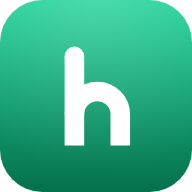
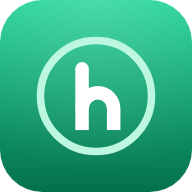
Иконка Hub 3.1: h в тонком мятном кольце
Claude-Session: https://claude.ai/code/session_014vtzJqHRHW3HyKP8sWtKkD

Changed region(s): [[0.1875, 0.1875, 0.8125, 0.8125], [0.4688, 0.5, 0.5312, 0.5312]]

diff --git a/sw.js b/sw.js
@@ -2,7 +2,7 @@
    Страницы и картинки — сразу из кэша (мгновенно), а в фоне проверяется новая версия; если она вышла — странице приходит сигнал «обновлено».
    Данные (*.json) — сначала сеть (свежие котировки и новости), если сеть не ответила за 4 с — из кэша.
    Шрифты Google и история цен с GitHub — из кэша с фоновым обновлением. */
-const V = 'hub-v34', STATIC = V + '-static', DATA = 'hub-data', EXT = 'hub-ext';
+const V = 'hub-v35', STATIC = V + '-static', DATA = 'hub-data', EXT = 'hub-ext';
 const CORE = ['./', 'index.html', 'artem.html', 'nastya.html', 'ucheba.html', 'finance.html', 'manifest.webmanifest', 'icon-192.png', 'apple-touch-icon.png'];
 
 self.addEventListener('install', e => {

diff --git a/src/logo/hub.py b/src/logo/hub.py
@@ -1,4 +1,4 @@
-"""Hub — логотип 3.0. Знак — строчная «h», нарисованная одной толщиной линии (стойка + арка), без шрифтов.
+"""Hub — логотип 3.1. Знак — строчная «h» в тонком мятном кольце; сама h, нарисованная одной толщиной линии (стойка + арка), без шрифтов.
 Те же правила строят «u» и «b», так что значок + «ub» читаются как hub."""
 W = 58          # толщина линии
 R = 68          # радиус арки (по средней линии)
@@ -24,10 +24,13 @@ def word(c, letters='hub'):
     for ch in letters:
         f, w = {'h': h, 'u': u, 'b': b}[ch](c, x); out += f; x += w + GAP
     return out, x - GAP
-def mark(c='#FFFFFF'):
-    """знак для значка: h по центру 512×512 (оптически чуть правее — у h тяжёлая левая стойка)"""
+RING = '#BDF7DF'   # мятное кольцо вокруг h: hub — точка, где всё сходится
+def mark(c='#FFFFFF', ring=None):
+    """знак для значка: h в тонком кольце, по центру 512×512 (h чуть правее — у неё тяжёлая левая стойка)"""
     f, w = h(c)
-    return scaled(f'<g transform="translate({256 - w/2 + 4} {256 - (ASC + BASE)/2})">{f}</g>', 0.9)
+    k = 0.62
+    glyph = f'<g transform="translate({256 + 5} 256) scale({k}) translate({-w/2} {-(ASC + BASE)/2})">{f}</g>'
+    return f'<circle cx="256" cy="256" r="148" fill="none" stroke="{ring or RING}" stroke-width="20"/>' + glyph
 GRAD = ('#22D39A', '#05704C')
 def defs(u):
     a, b_ = GRAD
@@ -39,11 +42,11 @@ def scaled(inner, k): return f'<g transform="translate(256 256) scale({k}) trans
 U = 'h'
 ROUNDED = svg(defs(U) + bg(U, 113) + mark())
 FULL = svg(defs(U) + bg(U, 0) + mark())
-MASKABLE = svg(defs(U) + bg(U, 0) + scaled(mark(), 0.84))
+MASKABLE = svg(defs(U) + bg(U, 0) + scaled(mark(), 0.86))
 ANDROID_BG = svg(defs(U) + bg(U, 0))
-ANDROID_FG = svg(scaled(mark(), 0.62))          # видимая часть адаптивной иконки — 72 из 108 dp
-ANDROID_MONO = svg(scaled(mark('#FFFFFF'), 0.62))
-CIRCLE = svg(defs(U) + '<circle cx="256" cy="256" r="256" fill="url(#gh)"/><circle cx="256" cy="256" r="256" fill="url(#lh)"/>' + scaled(mark(), 0.94))
+ANDROID_FG = svg(scaled(mark(), 0.66))          # видимая часть адаптивной иконки — 72 из 108 dp
+ANDROID_MONO = svg(scaled(mark('#FFFFFF', '#FFFFFF'), 0.66))
+CIRCLE = svg(defs(U) + '<circle cx="256" cy="256" r="256" fill="url(#gh)"/><circle cx="256" cy="256" r="256" fill="url(#lh)"/>' + scaled(mark(), 0.96))
 def wordmark(c='#25221C', letters='ub', first=None):
     """first — цвет первой буквы (h в фирменном изумруде)"""
     f, w = word(c, letters); H = BASE - ASC

diff --git a/android/app/src/main/java/io/github/sherlockkka/hub/MainActivity.java b/android/app/src/main/java/io/github/sherlockkka/hub/MainActivity.java
@@ -135,7 +135,7 @@ public class MainActivity extends Activity {
                     String bg = isNight() ? "#171611" : "#F4F1E8", fg = isNight() ? "#E8E4D8" : "#25221C";
                     v.loadDataWithBaseURL(HOME, "<html><head><meta name=viewport content='width=device-width,initial-scale=1'></head>"
                         + "<body style='margin:0;height:100vh;display:flex;align-items:center;justify-content:center;background:" + bg + ";color:" + fg + ";font-family:sans-serif;text-align:center'>"
-                        + "<div><svg xmlns='http://www.w3.org/2000/svg' width='84' height='84' viewBox='0 0 512 512'><defs><linearGradient id='gh' x1='0' y1='0' x2='0' y2='1'><stop offset='0' stop-color='#22D39A'/><stop offset='1' stop-color='#05704C'/></linearGradient><radialGradient id='lh' cx='.5' cy='0' r='.9'><stop offset='0' stop-color='#fff' stop-opacity='.18'/><stop offset='1' stop-color='#fff' stop-opacity='0'/></radialGradient></defs><rect width='84' height='84' rx='113' fill='url(#gh)'/><rect width='84' height='84' rx='113' fill='url(#lh)'/><g transform='translate(256 256) scale(0.9) translate(-256 -256)'><g transform='translate(163.0 10.5)'><path d='M29.0 128.0V392' fill='none' stroke='#FFFFFF' stroke-width='58' stroke-linecap='butt'/><circle cx='29.0' cy='128.0' r='29.0' fill='#FFFFFF'/><path d='M29.0 300.0A68 68 0 0 1 165.0 300.0V392' fill='none' stroke='#FFFFFF' stroke-width='58' stroke-linecap='butt'/></g></g></svg><h2 style='margin:10px 0 6px'>Нет соединения</h2>"
+                        + "<div><svg xmlns='http://www.w3.org/2000/svg' width='84' height='84' viewBox='0 0 512 512'><defs><linearGradient id='gh' x1='0' y1='0' x2='0' y2='1'><stop offset='0' stop-color='#22D39A'/><stop offset='1' stop-color='#05704C'/></linearGradient><radialGradient id='lh' cx='.5' cy='0' r='.9'><stop offset='0' stop-color='#fff' stop-opacity='.18'/><stop offset='1' stop-color='#fff' stop-opacity='0'/></radialGradient></defs><rect width='84' height='84' rx='113' fill='url(#gh)'/><rect width='84' height='84' rx='113' fill='url(#lh)'/><circle cx='256' cy='256' r='148' fill='none' stroke='#BDF7DF' stroke-width='20'/><g transform='translate(261 256) scale(0.62) translate(-97.0 -245.5)'><path d='M29.0 128.0V392' fill='none' stroke='#FFFFFF' stroke-width='58' stroke-linecap='butt'/><circle cx='29.0' cy='128.0' r='29.0' fill='#FFFFFF'/><path d='M29.0 300.0A68 68 0 0 1 165.0 300.0V392' fill='none' stroke='#FFFFFF' stroke-width='58' stroke-linecap='butt'/></g></svg><h2 style='margin:10px 0 6px'>Нет соединения</h2>"
                         + "<p style='opacity:.7;margin:0 0 18px'>Проверь интернет и попробуй ещё раз.</p>"
                         + "<a href='" + HOME + "' style='padding:12px 22px;border-radius:999px;background:#1F6B57;color:#fff;text-decoration:none'>Повторить</a></div></body></html>",
                         "text/html", "utf-8", null);

diff --git a/android/RELEASE_NOTES.md b/android/RELEASE_NOTES.md
@@ -1,3 +1,2 @@
-- Новая иконка: фирменная строчная h, нарисованная с нуля (как у hh, Threads): одна линия, изумрудный градиент
-- На заставке и главной — надпись hub в том же стиле, без повтора «H Hub»
-- Раздел «Артем» упрощён: сразу Учёба и Финансы
+- Иконка доработана: h в тонком мятном кольце
+- Значок в окне обновления и на экране «Нет соединения» — тот же
